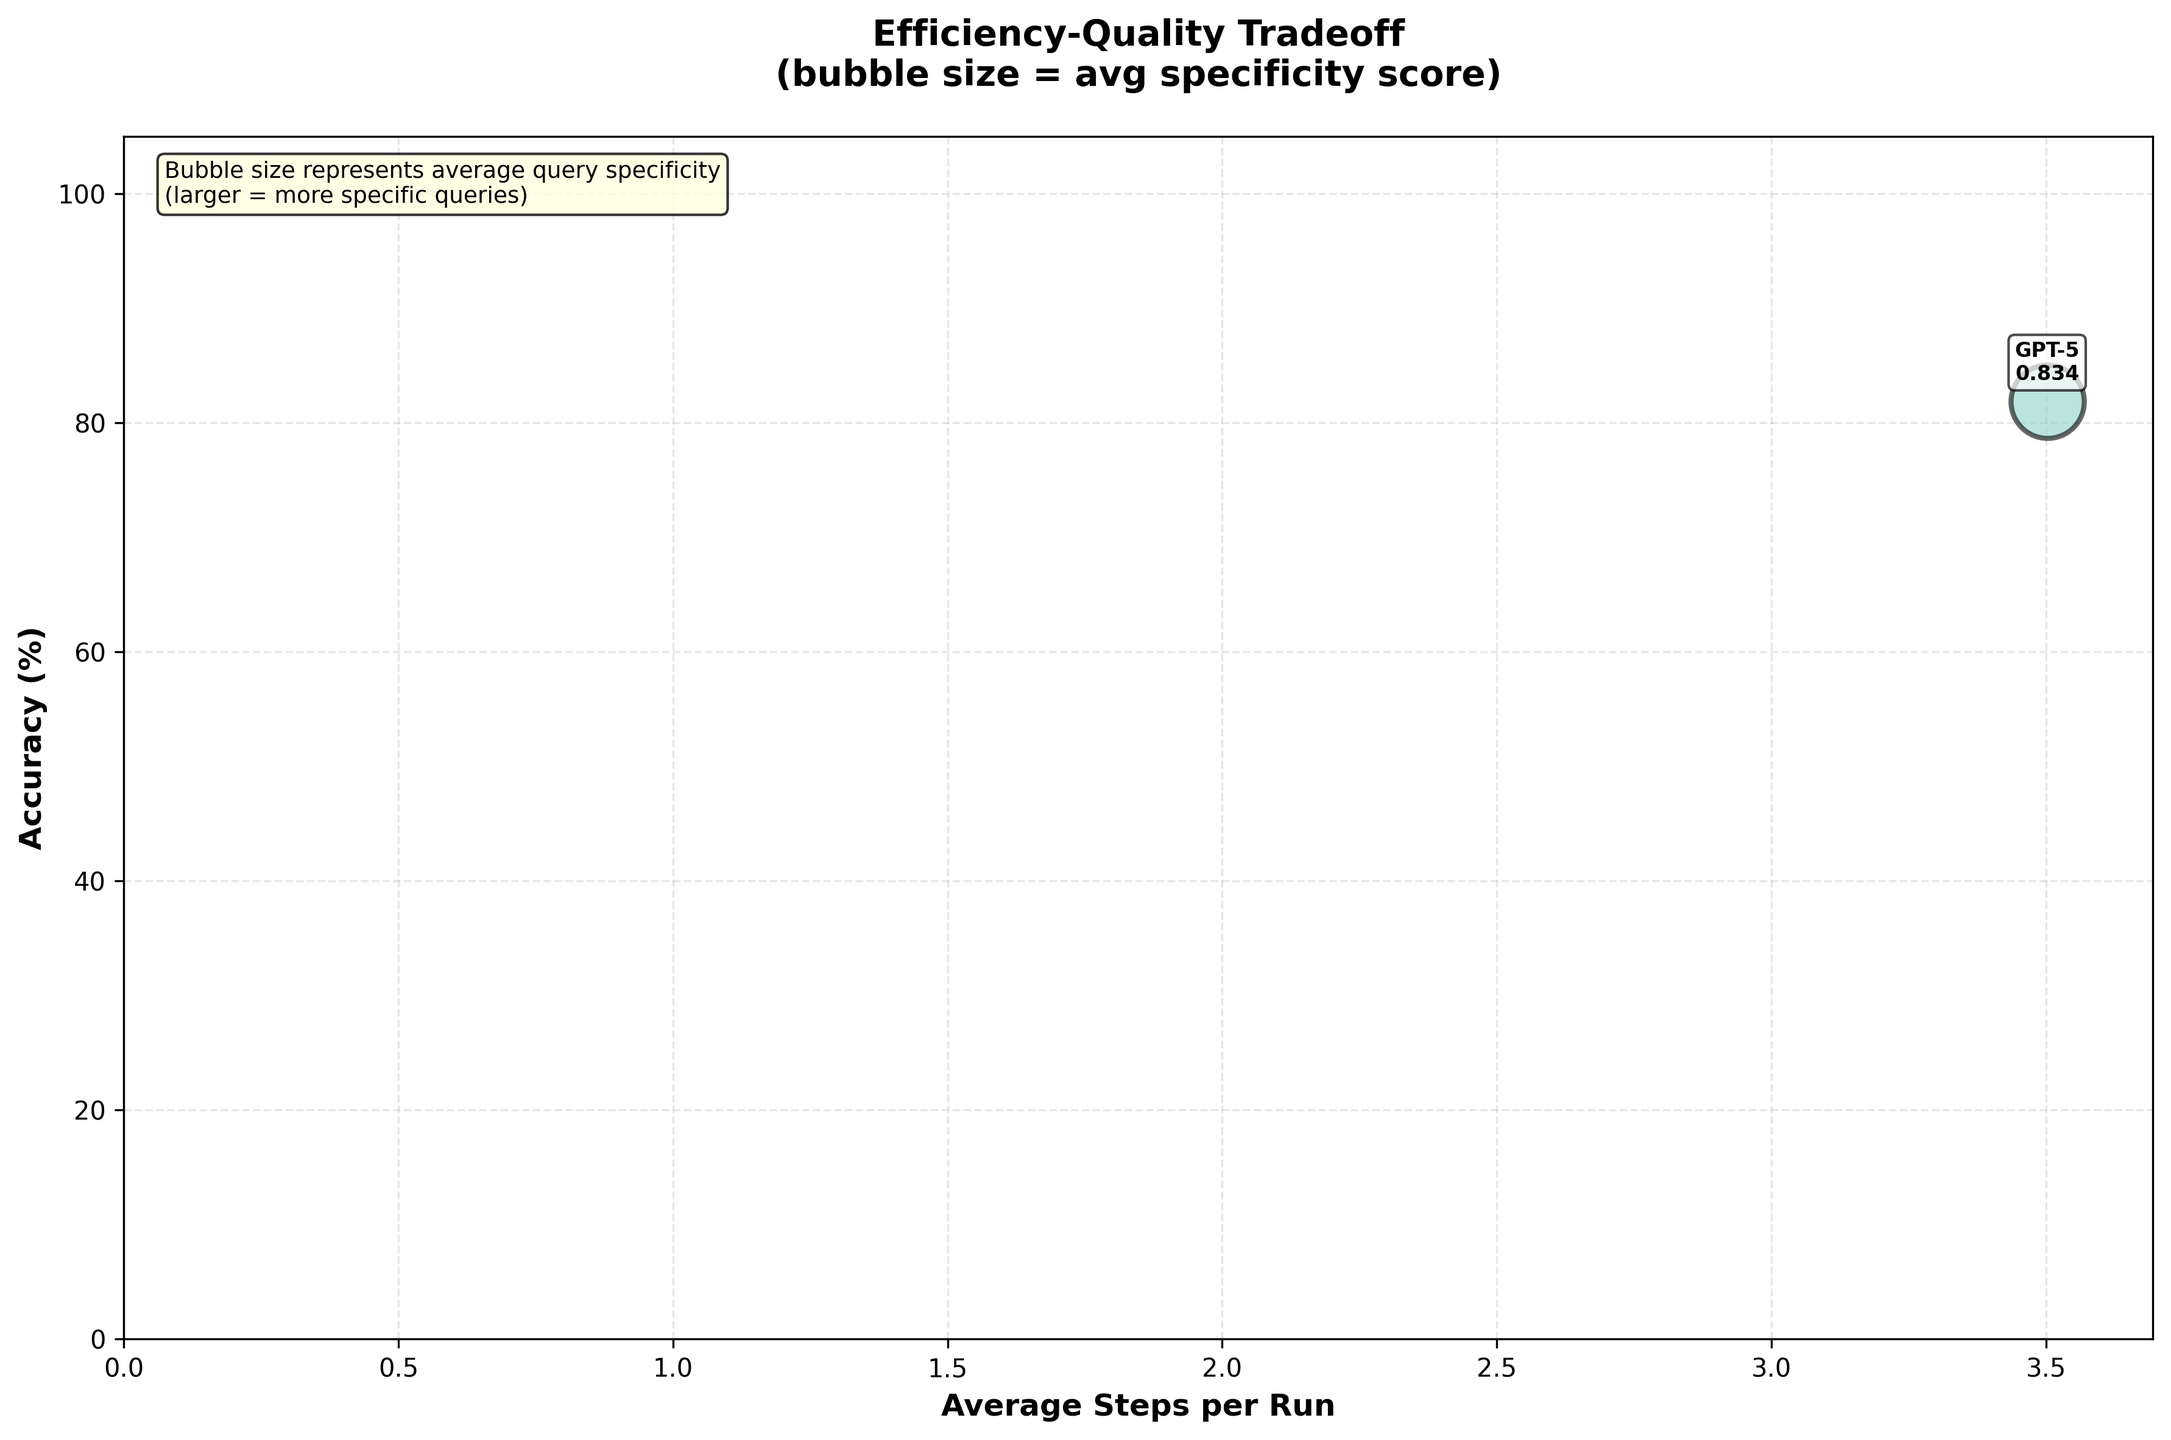
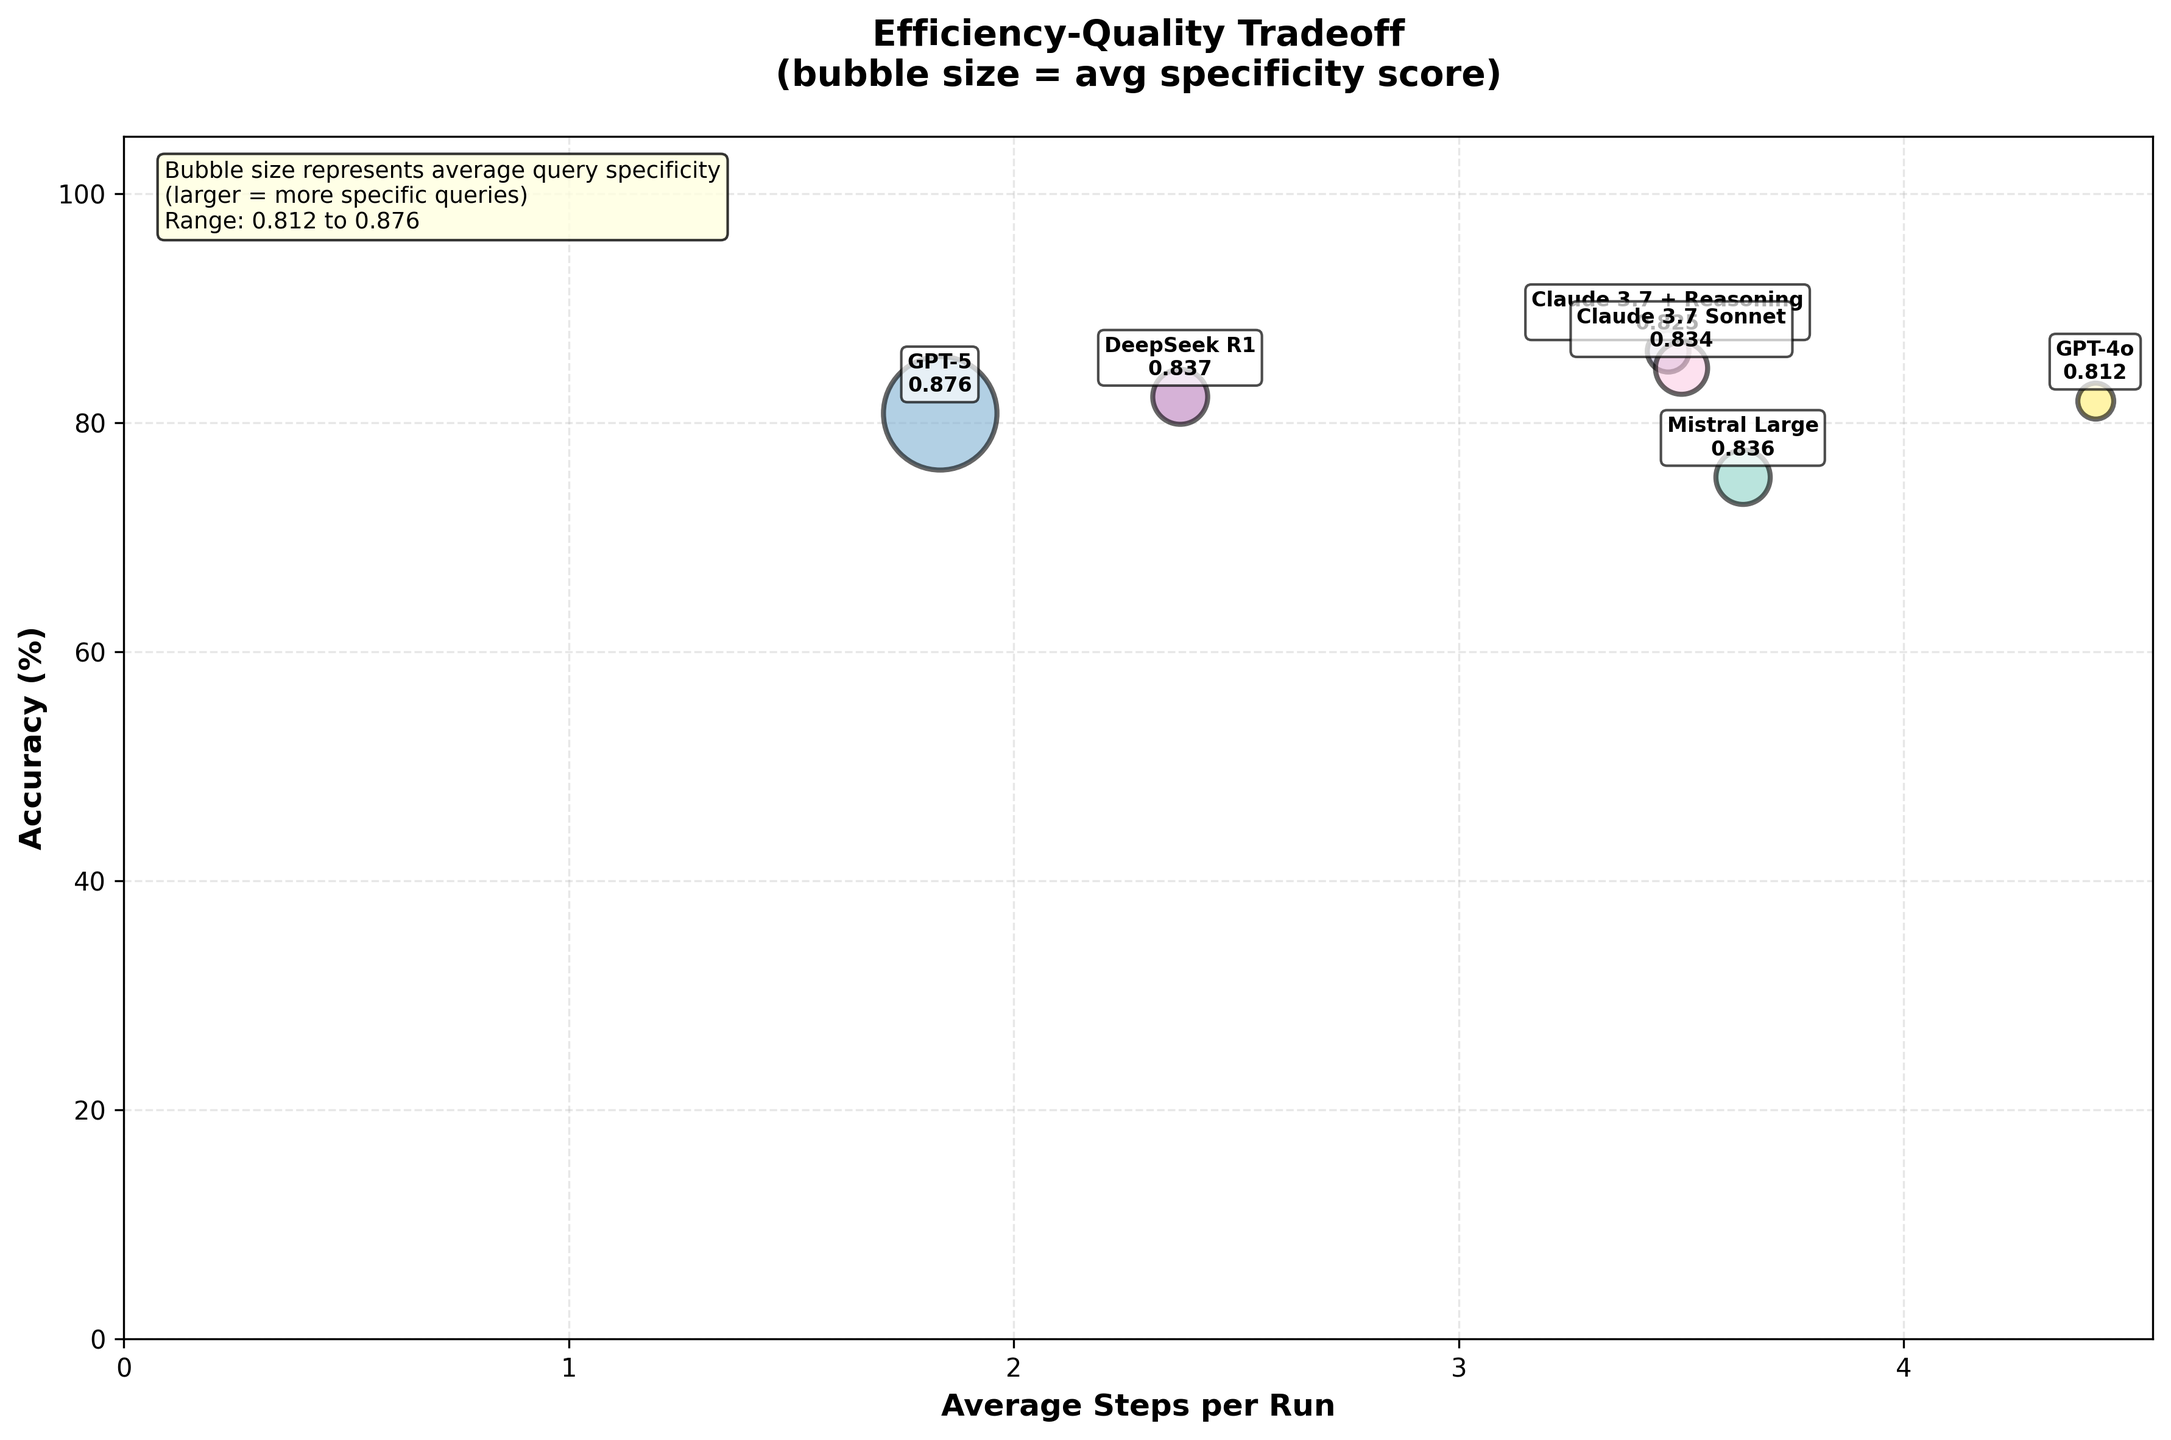
plots added

diff --git a/src/rag_analysis/cross_system_plots/correct_vs_incorrect_comparison.py b/src/rag_analysis/cross_system_plots/correct_vs_incorrect_comparison.py
@@ -1,0 +1,205 @@
+"""
+Correct vs Incorrect Answers: Multi-Metric Comparison
+
+Compare various metrics between correct and incorrect answers across all models.
+Shows 6 metrics in subplots to understand what differentiates successful from failed runs.
+"""
+import json
+import sys
+from pathlib import Path
+from collections import defaultdict
+import matplotlib.pyplot as plt
+import numpy as np
+
+# Add parent directory to path
+sys.path.insert(0, str(Path(__file__).resolve().parents[1]))
+from cross_system_plots.cross_system_utils import (
+    load_all_judgments, create_merged_dataset, normalize_model_name,
+    has_composition_failure, is_miscalibrated, has_coverage_gap, has_late_hit
+)
+
+OUTPUT_DIR = Path(__file__).resolve().parents[2] / 'rag_analysis' / 'output'
+PLOT_DIR = Path(__file__).resolve().parent
+
+
+def get_sufficiency_score(hallucination_judgment):
+    """Get sufficiency score from hallucination judgment."""
+    if not hallucination_judgment:
+        return None
+    
+    comp_faith = hallucination_judgment.get('composition_and_faithfulness', {})
+    score = comp_faith.get('sufficiency_score_est')
+    
+    return float(score) if score is not None else None
+
+
+def get_hop_coverage(hallucination_judgment):
+    """Get hop coverage from hallucination judgment."""
+    if not hallucination_judgment:
+        return None
+    
+    conf_misc = hallucination_judgment.get('confidence_miscalibration', {})
+    coverage = conf_misc.get('hop_coverage_est')
+    
+    return float(coverage) if coverage is not None else None
+
+
+def main():
+    """Generate correct vs incorrect comparison plots."""
+    cov_records, qual_records, hall_records = load_all_judgments(OUTPUT_DIR)
+    merged = create_merged_dataset(cov_records, qual_records, hall_records)
+    
+    # Filter to complete records
+    complete = [r for r in merged if 'quality' in r and 'hallucination' in r]
+    
+    # Group by model and correctness
+    model_metrics = defaultdict(lambda: {
+        'correct': defaultdict(list),
+        'incorrect': defaultdict(list)
+    })
+    
+    for rec in complete:
+        model = normalize_model_name(rec['model'])
+        is_correct = rec.get('is_correct', False)
+        category = 'correct' if is_correct else 'incorrect'
+        
+        # Composition failure
+        has_cf = has_composition_failure(rec.get('hallucination', {}))
+        model_metrics[model][category]['composition_failure'].append(1 if has_cf else 0)
+        
+        # Sufficiency score
+        suff_score = get_sufficiency_score(rec.get('hallucination', {}))
+        if suff_score is not None:
+            model_metrics[model][category]['sufficiency'].append(suff_score)
+        
+        # Hop coverage
+        hop_cov = get_hop_coverage(rec.get('hallucination', {}))
+        if hop_cov is not None:
+            model_metrics[model][category]['hop_coverage'].append(hop_cov)
+        
+        # Miscalibration
+        has_misc = is_miscalibrated(rec.get('hallucination', {}))
+        model_metrics[model][category]['miscalibration'].append(1 if has_misc else 0)
+        
+        # Coverage gap
+        has_gap = has_coverage_gap(rec.get('coverage', {}))
+        model_metrics[model][category]['coverage_gap'].append(1 if has_gap else 0)
+        
+        # Late hit
+        has_late = has_late_hit(rec.get('coverage', {}))
+        model_metrics[model][category]['late_hit'].append(1 if has_late else 0)
+    
+    # Create figure with 6 subplots
+    fig, axes = plt.subplots(3, 2, figsize=(16, 18))
+    axes = axes.flatten()
+    
+    models = sorted(model_metrics.keys())
+    x = np.arange(len(models))
+    width = 0.35
+    
+    # Define metrics and their properties
+    metrics = [
+        ('composition_failure', 'Composition Failure Rate by Correctness', '% with Composition Failure', 100, True),
+        ('sufficiency', 'Average Sufficiency Score by Correctness', 'Average Sufficiency Score', 1, False),
+        ('hop_coverage', 'Average Hop Coverage by Correctness', 'Average Hop Coverage', 1, False),
+        ('miscalibration', 'Miscalibration Rate by Correctness', 'Miscalibration Rate (%)', 100, True),
+        ('coverage_gap', 'Coverage Gap Rate by Correctness', 'Coverage Gap Rate (%)', 100, True),
+        ('late_hit', 'Late Hit Rate by Correctness', 'Late Hit Rate (%)', 100, True),
+    ]
+    
+    for idx, (metric_key, title, ylabel, scale, is_rate) in enumerate(metrics):
+        ax = axes[idx]
+        
+        correct_vals = []
+        incorrect_vals = []
+        
+        for model in models:
+            # Correct values
+            correct_data = model_metrics[model]['correct'][metric_key]
+            if correct_data and len(correct_data) > 0:
+                correct_vals.append(scale * np.mean(correct_data))
+            else:
+                # If no data, use 0 but this shouldn't happen
+                correct_vals.append(0)
+            
+            # Incorrect values
+            incorrect_data = model_metrics[model]['incorrect'][metric_key]
+            if incorrect_data and len(incorrect_data) > 0:
+                incorrect_vals.append(scale * np.mean(incorrect_data))
+            else:
+                # If no data, use 0 but this shouldn't happen
+                incorrect_vals.append(0)
+        
+        # Plot bars - always plot both sets
+        bars1 = ax.bar(x - width/2, correct_vals, width, label='Correct', 
+                       color='#2ecc71', alpha=0.8, edgecolor='black', linewidth=1.5)
+        bars2 = ax.bar(x + width/2, incorrect_vals, width, label='Incorrect',
+                       color='#e74c3c', alpha=0.8, edgecolor='black', linewidth=1.5)
+        
+        # Add value labels
+        for bar, val in zip(bars1, correct_vals):
+            if val > 0:
+                height = bar.get_height()
+                ax.text(bar.get_x() + bar.get_width()/2., height,
+                       f'{val:.1f}' if is_rate else f'{val:.2f}',
+                       ha='center', va='bottom', fontsize=8)
+        
+        for bar, val in zip(bars2, incorrect_vals):
+            if val > 0:
+                height = bar.get_height()
+                ax.text(bar.get_x() + bar.get_width()/2., height,
+                       f'{val:.1f}' if is_rate else f'{val:.2f}',
+                       ha='center', va='bottom', fontsize=8)
+        
+        ax.set_ylabel(ylabel, fontsize=10, fontweight='bold')
+        ax.set_xlabel('Model', fontsize=10, fontweight='bold')
+        ax.set_title(title, fontsize=11, fontweight='bold', pad=10)
+        ax.set_xticks(x)
+        ax.set_xticklabels(models, rotation=15, ha='right', fontsize=9)
+        ax.legend(loc='upper right', fontsize=9)
+        ax.grid(axis='y', alpha=0.3, linestyle='--')
+        
+        # Set appropriate y-limits
+        max_val = max(max(correct_vals), max(incorrect_vals))
+        if max_val > 0:
+            ax.set_ylim(0, max_val * 1.15)
+    
+    fig.suptitle('Correct vs Incorrect Answers: Multi-Metric Comparison', 
+                 fontsize=16, fontweight='bold', y=0.995)
+    
+    plt.tight_layout(rect=[0, 0, 1, 0.99])
+    output_path = PLOT_DIR / 'correct_vs_incorrect_comparison.png'
+    plt.savefig(output_path, dpi=300, bbox_inches='tight')
+    print(f"Saved: {output_path}")
+    plt.close()
+    
+    # Print statistics
+    print("\n=== Correct vs Incorrect Comparison Statistics ===\n")
+    for model in models:
+        correct_count = len(model_metrics[model]['correct']['composition_failure'])
+        incorrect_count = len(model_metrics[model]['incorrect']['composition_failure'])
+        total = correct_count + incorrect_count
+        accuracy = 100 * correct_count / total if total > 0 else 0
+        
+        print(f"{model}:")
+        print(f"  Total: {total} ({correct_count} correct, {incorrect_count} incorrect)")
+        print(f"  Accuracy: {accuracy:.1f}%")
+        
+        for metric_key, _, _, scale, is_rate in metrics:
+            correct_data = model_metrics[model]['correct'][metric_key]
+            incorrect_data = model_metrics[model]['incorrect'][metric_key]
+            
+            if correct_data and incorrect_data:
+                correct_avg = scale * np.mean(correct_data)
+                incorrect_avg = scale * np.mean(incorrect_data)
+                
+                label = metric_key.replace('_', ' ').title()
+                if is_rate:
+                    print(f"  {label}: {correct_avg:.1f}% (correct) vs {incorrect_avg:.1f}% (incorrect)")
+                else:
+                    print(f"  {label}: {correct_avg:.3f} (correct) vs {incorrect_avg:.3f} (incorrect)")
+        print()
+
+
+if __name__ == '__main__':
+    main()

diff --git a/src/rag_analysis/cross_system_plots/2_correctness_problem_heatmap.py b/src/rag_analysis/cross_system_plots/2_correctness_problem_heatmap.py
@@ -26,7 +26,7 @@ PLOT_DIR = Path(__file__).resolve().parent
 
 
 def main():
-    """Generate correctness vs problem type heatmap."""
+    """Generate correctness vs problem type heatmap with subplots for each model."""
     cov_records, qual_records, hall_records = load_all_judgments(OUTPUT_DIR)
     merged = create_merged_dataset(cov_records, qual_records, hall_records)
     
@@ -61,59 +61,66 @@ def main():
     problem_types = ['has_gap', 'carry_drop', 'late_hit', 'composition_failure', 'miscalibration']
     problem_labels = ['Coverage\nGap', 'Anchor\nCarry-Drop', 'Late\nHit', 'Composition\nFailure', 'Mis-\ncalibration']
     
-    # Calculate percentages
-    heatmap_data = []
-    for model in models:
-        row = []
+    # Create figure with 6 subplots (2 rows x 3 columns)
+    fig, axes = plt.subplots(2, 3, figsize=(18, 12))
+    axes = axes.flatten()
+    
+    # Create a subplot for each model
+    for idx, model in enumerate(models):
+        ax = axes[idx]
+        
+        # Calculate percentages for this model
         total_incorrect = model_problems[model]['incorrect']['total']
+        data = []
+        counts = []
+        
         if total_incorrect == 0:
-            row = [0] * len(problem_types)
+            data = [0] * len(problem_types)
+            counts = [0] * len(problem_types)
         else:
             for ptype in problem_types:
                 count = model_problems[model][ptype]['count']
                 pct = 100 * count / total_incorrect
-                row.append(pct)
-        heatmap_data.append(row)
-    
-    heatmap_data = np.array(heatmap_data)
-    
-    # Create heatmap
-    fig, ax = plt.subplots(figsize=(12, 8))
-    
-    im = ax.imshow(heatmap_data, cmap='YlOrRd', aspect='auto', vmin=0, vmax=100)
-    
-    # Set ticks
-    ax.set_xticks(np.arange(len(problem_labels)))
-    ax.set_yticks(np.arange(len(models)))
-    ax.set_xticklabels(problem_labels, fontsize=11)
-    ax.set_yticklabels(models, fontsize=11)
-    
-    # Rotate x labels
-    plt.setp(ax.get_xticklabels(), rotation=0, ha='center')
-    
-    # Add values in cells
-    for i in range(len(models)):
+                data.append(pct)
+                counts.append(count)
+        
+        # Reshape data for heatmap (1 row x N columns)
+        heatmap_data = np.array([data])
+        
+        # Create heatmap for this model
+        im = ax.imshow(heatmap_data, cmap='YlOrRd', aspect='auto', vmin=0, vmax=100)
+        
+        # Set ticks
+        ax.set_xticks(np.arange(len(problem_labels)))
+        ax.set_yticks([0])
+        ax.set_xticklabels(problem_labels, fontsize=10)
+        ax.set_yticklabels([model], fontsize=11, fontweight='bold')
+        
+        # Add values in cells
         for j in range(len(problem_types)):
-            value = heatmap_data[i, j]
-            total_incorrect = model_problems[models[i]]['incorrect']['total']
-            count = model_problems[models[i]][problem_types[j]]['count']
-            
+            value = data[j]
+            count = counts[j]
             text_color = 'white' if value > 50 else 'black'
-            ax.text(j, i, f'{value:.1f}%\n(n={count})',
+            ax.text(j, 0, f'{value:.1f}%\n(n={count})',
                    ha='center', va='center', color=text_color, 
                    fontsize=9, fontweight='bold')
+        
+        # Set title with total incorrect count
+        ax.set_title(f'{model}\n{total_incorrect} incorrect answers', 
+                    fontsize=11, fontweight='bold', pad=10)
     
-    # Add colorbar
-    cbar = plt.colorbar(im, ax=ax)
+    # Add overall title
+    fig.suptitle('Failure Mode Prevalence Among Incorrect Answers by Model\n(% of incorrect answers that exhibit each problem)', 
+                 fontsize=16, fontweight='bold', y=0.98)
+    
+    # Add a single colorbar for all subplots
+    fig.subplots_adjust(right=0.92)
+    cbar_ax = fig.add_axes([0.94, 0.15, 0.02, 0.7])
+    cbar = fig.colorbar(axes[0].images[0], cax=cbar_ax)
     cbar.set_label('% of Incorrect Answers with Problem', 
                    fontsize=12, fontweight='bold', rotation=270, labelpad=25)
     
-    ax.set_xlabel('Problem Type', fontsize=13, fontweight='bold')
-    ax.set_ylabel('Model', fontsize=13, fontweight='bold')
-    ax.set_title('Failure Mode Prevalence Among Incorrect Answers\n(% of incorrect answers that exhibit each problem)', 
-                 fontsize=14, fontweight='bold', pad=20)
-    
-    plt.tight_layout()
+    plt.tight_layout(rect=[0, 0, 0.92, 0.96])
     output_path = PLOT_DIR / '2_correctness_problem_heatmap.png'
     plt.savefig(output_path, dpi=300, bbox_inches='tight')
     print(f"Saved: {output_path}")

diff --git a/src/rag_analysis/cross_system_plots/3_efficiency_quality_tradeoff.py b/src/rag_analysis/cross_system_plots/3_efficiency_quality_tradeoff.py
@@ -76,8 +76,20 @@ def main():
     # Color map for models
     colors = plt.cm.Set3(np.linspace(0, 1, len(models)))
     
-    # Size based on specificity (scale for visibility)
-    sizes = [1000 * spec for spec in avg_specificity_list]
+    # Normalize specificity to emphasize differences
+    # Map the range [min, max] to a more visible size range
+    min_spec = min(avg_specificity_list)
+    max_spec = max(avg_specificity_list)
+    spec_range = max_spec - min_spec
+    
+    # Scale sizes more aggressively to emphasize differences
+    # Use exponential scaling to make differences more visible
+    if spec_range > 0:
+        normalized_specs = [(spec - min_spec) / spec_range for spec in avg_specificity_list]
+        # Scale from 200 (smallest) to 2000 (largest) with exponential curve
+        sizes = [200 + 1800 * (norm_spec ** 2) for norm_spec in normalized_specs]
+    else:
+        sizes = [1000] * len(avg_specificity_list)
     
     for i, (model, acc, steps, spec, color) in enumerate(
         zip(models, accuracies, avg_steps_list, avg_specificity_list, colors)):
@@ -99,8 +111,12 @@ def main():
     ax.set_xlim(left=0)
     ax.set_ylim(0, 105)
     
-    # Add legend with specificity info
-    legend_text = "Bubble size represents average query specificity\n(larger = more specific queries)"
+    # Add legend with specificity info and range
+    min_spec = min(avg_specificity_list)
+    max_spec = max(avg_specificity_list)
+    legend_text = (f"Bubble size represents average query specificity\n"
+                   f"(larger = more specific queries)\n"
+                   f"Range: {min_spec:.3f} to {max_spec:.3f}")
     ax.text(0.02, 0.98, legend_text, transform=ax.transAxes,
            fontsize=9, verticalalignment='top',
            bbox=dict(boxstyle='round', facecolor='lightyellow', alpha=0.8))
